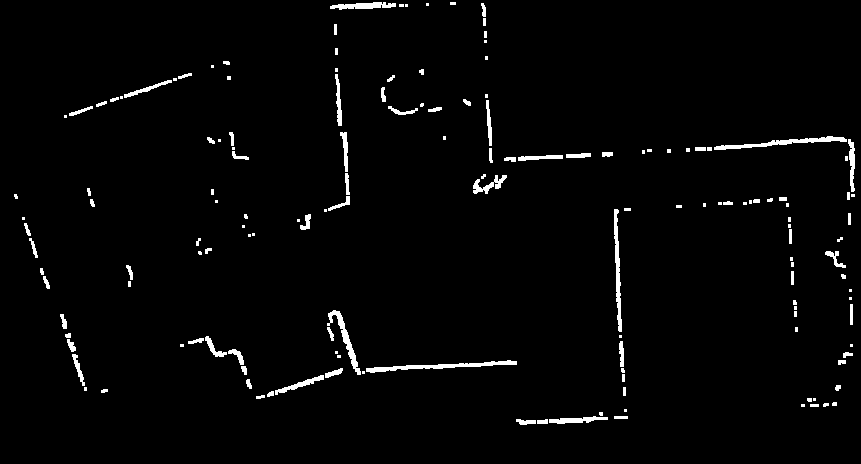
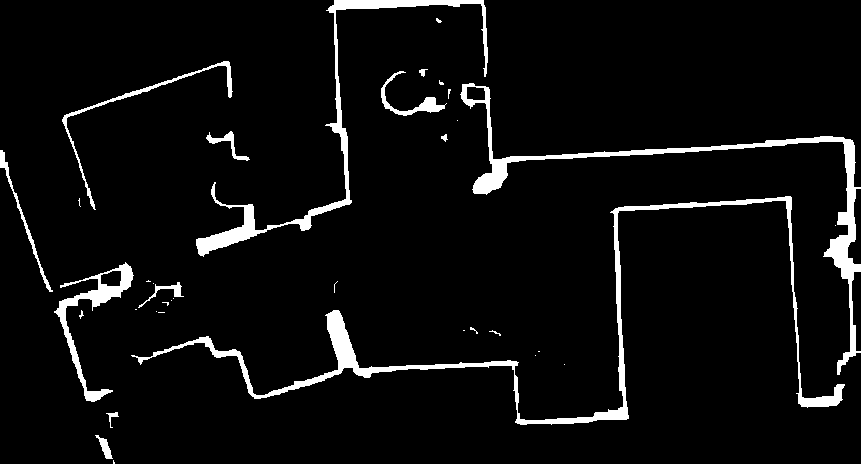
better thresholding and edge detection

diff --git a/utils.py b/utils.py
@@ -5,22 +5,26 @@ import numpy as np
 
 def extract_walls(image):
     """
-    Extract wall-like structures from the SLAM map.
+    Enhanced wall extraction with preprocessing to connect fragmented structures.
     """
-    # Invert image
+    # Invert image: walls = white, free space = black
     inverted = cv2.bitwise_not(image)
 
-    # Threshold to create binary image
-    _, binary = cv2.threshold(inverted, 200, 255, cv2.THRESH_BINARY)
+    # Threshold to keep only high-contrast wall areas
+    _, binary = cv2.threshold(inverted, 220, 255, cv2.THRESH_BINARY)
 
-    # Denoise with morphological operations
-    kernel = np.ones((3, 3), np.uint8)
-    cleaned = cv2.morphologyEx(binary, cv2.MORPH_OPEN, kernel, iterations=1)
+    # Morphological closing to connect nearby wall fragments
+    kernel = np.ones((5, 5), np.uint8)
+    closed = cv2.morphologyEx(binary, cv2.MORPH_CLOSE, kernel, iterations=2)
 
-    # Detect edges
-    edges = cv2.Canny(cleaned, 50, 150)
+    # Blurring for noise
+    blurred = cv2.GaussianBlur(closed, (5, 5), 0)
 
-    return cleaned, edges
+    # Edge detection
+    edges = cv2.Canny(blurred, 50, 150)
+
+    return closed, edges
+
 
 def save_image(image, path):
     cv2.imwrite(path, image)
